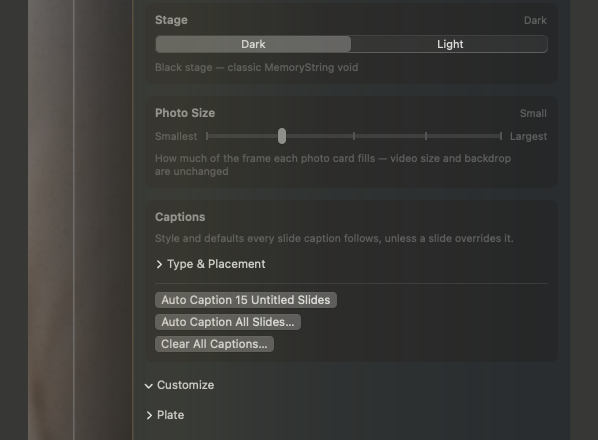
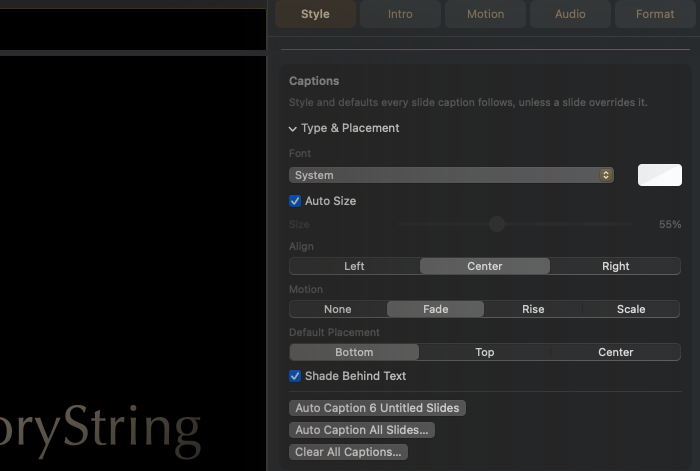
Show Style → Captions Type & Placement in Intro and captions docs.
Replace the collapsed Captions crop with an Inspector shot of the expanded caption controls, and lead the captions section with a clear how-to heading.

diff --git a/intro-captions.md b/intro-captions.md
@@ -58,19 +58,19 @@ Photo Size, border, torn edge, curl, shadow, wind, and backdrop wash stay on **p
 
 Optional. MemoryString does not add them unless you type or use **Auto Caption**. These are **not** the intro title.
 
-Select a media slide and type in the Inspector clip bar (**Add a caption…**). **Generate** writes one. **Aa** opens that slide’s position / color / size (and **Caption Style…** jumps to Style → Captions). A group’s caption belongs to its **lead** card.
+## Set a caption in the Inspector
+
+![Style → Captions: Type & Placement (Font, Align, Motion, Default Placement, Shade Behind Text)](../.gitbook/assets/inspector-captions.png)
+
+In the right-hand **Inspector**, open **Style** → scroll to **Captions** → expand **Type & Placement**. That is where you set project-wide caption **Font**, color, **Auto Size** / **Size**, **Align**, **Motion**, **Default Placement**, and **Shade Behind Text**. Bulk fill / clear sit under the same **Captions** heading (**Auto Caption …**, **Clear All Captions…**).
+
+To type the words on one slide: select the media clip, then use the Inspector clip bar (**Add a caption…**). **Generate** writes one. **Aa** opens that slide’s position / color / size (and **Caption Style…** jumps back to Style → Captions). A group’s caption belongs to its **lead** card.
 
 **Position** per slide: Inherit / Bottom / Top / Center, or drag on the preview (**Reset** snaps back).
 
-### Studio → Style → Captions
-
-![Captions: Type & Placement, Auto Caption, Clear](../.gitbook/assets/inspector-captions.png)
-
-Project-wide defaults every slide caption follows unless that slide overrides them. Open **Type & Placement** for **Font**, **Color**, **Auto Size** / **Size**, **Align**, **Motion** (None / Fade / Rise / Scale), **Default Placement**, and **Shade Behind Text**.
+Studio only for the style knobs above. Essential: type in the clip bar; open Studio for **Type & Placement**.
 
 Bulk: **Auto Caption N Untitled Slides** (empty only), **Auto Caption All Slides…**, **Clear All Captions…**. Studio also offers **Reset Caption Style** (when style was changed) and **Reset N Positions** (when slides have dragged positions).
-
-Essential: type in the clip bar; font and style knobs are in Studio.
 
 ### Auto Caption
 
